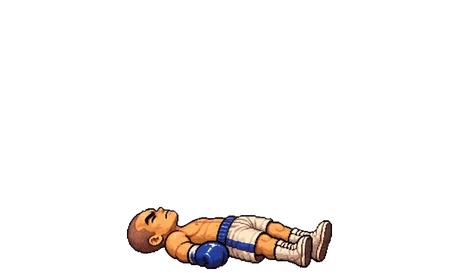
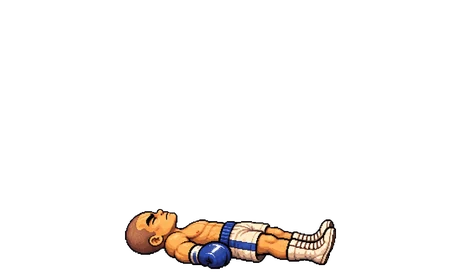
Boks: boksörler yandan görünüm, birbirine dönük; galibiyet pozu
Claude-Session: https://claude.ai/code/session_01ToyLQfU5ZWi1w6YotPTyKf

Changed region(s): [[0.2739, 0.7429, 0.7304, 0.9714]]

diff --git a/index.html b/index.html
@@ -393,7 +393,7 @@ body.t-baba .yr p.news{font-family:"Cinzel",serif;font-style:normal;border-left-
 <script>
 /* ============ Sürüm ve otomatik güncelleme (GitHub) ============ */
 try{if('serviceWorker' in navigator&&/github\.io$/.test(location.hostname))navigator.serviceWorker.register('sw.js').catch(()=>{})}catch(e){}
-const APPV='2026.11.16-0200';
+const APPV='2026.11.16-0300';
 (function(){try{if(!/github\.io$/.test(location.hostname))return;fetch(location.pathname+'?nc='+Date.now(),{cache:'no-store'}).then(r=>r.text()).then(t=>{const m=t.match(/const APPV='([^']+)'/);if(m&&m[1]!==APPV&&!sessionStorage.getItem('upd'+m[1])){sessionStorage.setItem('upd'+m[1],'1');location.replace(location.pathname+'?v='+encodeURIComponent(m[1]))}}).catch(()=>{})}catch(e){}})();
 /* ============ Yardımcılar ============ */
 const $=id=>document.getElementById(id);
@@ -2475,7 +2475,7 @@ function mgFight(cb,opp,hard){let box=$('ctBox');if(!box){box=document.createEle
   box.innerHTML=`<div class="ctHud" style="max-width:${W}px"><span id="ctHp"></span><b id="ctT">${BX?'🥊 '+name:D?(lv===3?'Son yüzleşme':'Teke tek'):name?'Kavga · '+name:'Yumruk yumruğa'}</b><span id="ctLeft"></span></div>
   <div class="ctSt" id="ctSt" style="width:${W}px;height:${Hh}px"><div class="kgIn" style="${BX?`background-image:url(img/bx_ring.webp);background-size:${(1204*k).toFixed(1)}px ${(677.5*k).toFixed(1)}px;background-position:${(-152*k).toFixed(1)}px ${(-47*k).toFixed(1)}px`:`background-size:${(1672*k).toFixed(1)}px ${(941*k).toFixed(1)}px;background-position:${(-SX*k).toFixed(1)}px ${(-SY*k).toFixed(1)}px`}"><div id="ctFx"></div></div><div class="kgSide kgL" id="kgL"></div><div class="kgSide kgR" id="kgR"></div><div class="ctFlash" id="ctFlash"></div></div>
   <div class="ctBot" style="max-width:${W}px"><p id="ctMsg">${D?'Rakip soldaysa ekranın <b>soluna</b>, sağdaysa <b>sağına</b> dokun. Gardı kapalıyken yumruk işlemez: <b>ünlem</b> çıkınca ya da yumruğunu savurduktan hemen sonra vur. Çift ünlem ağır yumruktur, iki can götürür.':'Soldan gelene ekranın <b>soluna</b>, sağdan gelene <b>sağına</b> dokunup vur. Ünlem çıkınca yumruk geliyor: ondan önce davran. Boşa sallarsan açık verirsin.'}${kbHint('← → ya da A D, Esc geri çekil')}</p><button id="ctRun">Geri çekil</button></div>`;
-  (BX?['p_i','p_l1','p_l2','p_r','p_h','p_d',...['i','l','r','h','d'].map(f=>(O.ek||'e1')+'_'+f)]:['p_i','p_l1','p_l2','p_r','p_h','p_d'].concat(...TY.map(t=>['i','l','r','h','d'].filter(f=>!(t.k==='e0'&&f==='l')).map(f=>t.k+'_'+f)))).forEach(f=>{new Image().src=`img/${PX}_${f}.webp`});
+  (BX?['p_i','p_l1','p_l2','p_r','p_h','p_d','p_v',...['i','l','r','h','d'].map(f=>(O.ek||'e1')+'_'+f)]:['p_i','p_l1','p_l2','p_r','p_h','p_d'].concat(...TY.map(t=>['i','l','r','h','d'].filter(f=>!(t.k==='e0'&&f==='l')).map(f=>t.k+'_'+f)))).forEach(f=>{new Image().src=`img/${PX}_${f}.webp`});
   box.classList.add('on');const fxl=$('ctFx');
   const mk=(kk,sc)=>{const el=document.createElement('div');el.className='kgM';el.style.width=sw+'px';el.style.height=sh+'px';const im=document.createElement('img');im.draggable=false;im.alt='';el.appendChild(im);fxl.appendChild(el);return{el,im,k:kk,sc:sc||1,fr:'',fl:null}};
   const fr=(o,f,flip)=>{if(o.fr!==f){o.fr=f;o.im.src=`img/${PX}_${o.k}_${f}.webp`}if(o.fl!==!!flip){o.fl=!!flip;o.im.style.transform=`scale(${flip?-o.sc:o.sc},${o.sc})`}};
@@ -2484,7 +2484,7 @@ function mgFight(cb,opp,hard){let box=$('ctBox');if(!box){box=document.createEle
   const st={hp:HP,kill:0,over:0,raf:0,t:0,last:0,en:[],sp:500,spawned:0,lock:0,pf:0,ps:0,ph_:0,phs:0,alt:0,shake:0};CT=st;
   const hud=()=>{$('ctHp').textContent='❤'.repeat(Math.max(0,st.hp))||'💔';if(D){const e=st.en[0];$('ctLeft').innerHTML=`<i class="kgBar"><u style="width:${e?Math.max(0,Math.round(e.hp/DHP*100)):100}%"></u></i>`}else $('ctLeft').textContent=`👊 ${st.kill}/${N}`};
   const pop=(x,y,cls,txt)=>{const e=document.createElement('i');e.className=cls;if(txt)e.textContent=txt;e.style.left=x+'px';e.style.top=y+'px';e.style.zIndex=2000;fxl.appendChild(e);setTimeout(()=>e.remove(),420)};
-  const end=ok=>{if(st.over)return;st.over=1;cancelAnimationFrame(st.raf);if(!ok&&st.hp<=0){fr(P,'d');place(P,cx,gy)}else fr(P,'i');
+  const end=ok=>{if(st.over)return;st.over=1;cancelAnimationFrame(st.raf);if(!ok&&st.hp<=0){fr(P,'d');place(P,cx,gy)}else fr(P,BX&&ok?'v':'i');
     $('ctMsg').innerHTML=ok?(BX?'<b style="color:var(--good)">Nakavt! Hakem elini kaldırdı.</b>':'<b style="color:var(--good)">Hepsini yere serdin!</b>'):st.hp<=0?'<b style="color:var(--blood)">Yere serildin.</b>':'<b style="color:var(--blood)">Geri çekildin.</b>';
     setTimeout(()=>{box.classList.remove('on');box.innerHTML='';box.onpointerdown=box.onpointermove=box.onpointerup=box.onpointercancel=null;CT=null;cb(ok,!ok&&st.hp>0?'run':undefined)},ok?1100:1000)};
   const spawn=()=>{const boss=D||(bossN&&st.spawned===N-1);let hh=0;for(const c of name)hh=(hh*31+c.charCodeAt(0))%997;const ty=BX?{k:O.ek||'e1',hp:2,sp:1,sc:1}:D?(lv===3?TY[2]:TY[hh%4]):boss?TY[2]:TY[R(0,3)];const L=st.en.filter(e=>!e.dead&&e.s<0).length,Rr=st.en.filter(e=>!e.dead&&e.s>0).length;const s=L===Rr?(ch(.5)?-1:1):(L<Rr?-1:1);
@@ -2518,7 +2518,7 @@ function mgFight(cb,opp,hard){let box=$('ctBox');if(!box){box=document.createEle
       if(e.state==='hit')fr(e,'h',e.s>0);else if(e.state==='punch'){if(e.s<0)fr(e,'r',0);else if(e.k==='e0')fr(e,'r',1);else fr(e,'l',0)}else fr(e,'i',e.s<0);
       const bob=e.state==='walk'&&e.d>STOP+1?Math.abs(Math.sin((t+e.ph)/110))*-ph*.035:e.state==='wind'?Math.sin(t/40)*ph*.012:0;
       place(e,x+(e.state==='wind'?e.s*ph*.05:0),e.y+(e.cy||0),e.state==='circle'?Math.abs(Math.sin((t+e.ph)/90))*-ph*.04:bob);return true});
-    if(t<st.ph_)fr(P,'h',st.phs<0);else if(t<st.pf){if(st.ps>0)fr(P,'r',0);else fr(P,st.alt?'l1':'l2',0)}else fr(P,'i',0);
+    if(t<st.ph_)fr(P,'h',st.phs<0);else if(t<st.pf){if(st.ps>0)fr(P,'r',0);else fr(P,st.alt?'l1':'l2',0)}else fr(P,'i',BX&&st.en.some(e=>!e.dead&&e.s<0));
     place(P,cx+(t<st.ph_?-st.phs*ph*.06:0)+(t<st.shake?R(-2,2):0),gy);
     st.raf=requestAnimationFrame(step)};
   box.onpointerdown=ev=>{if(ev.target.id==='ctRun')return;ev.preventDefault();const r=$('ctSt').getBoundingClientRect();punch(ev.clientX<r.left+r.width/2?-1:1)};
